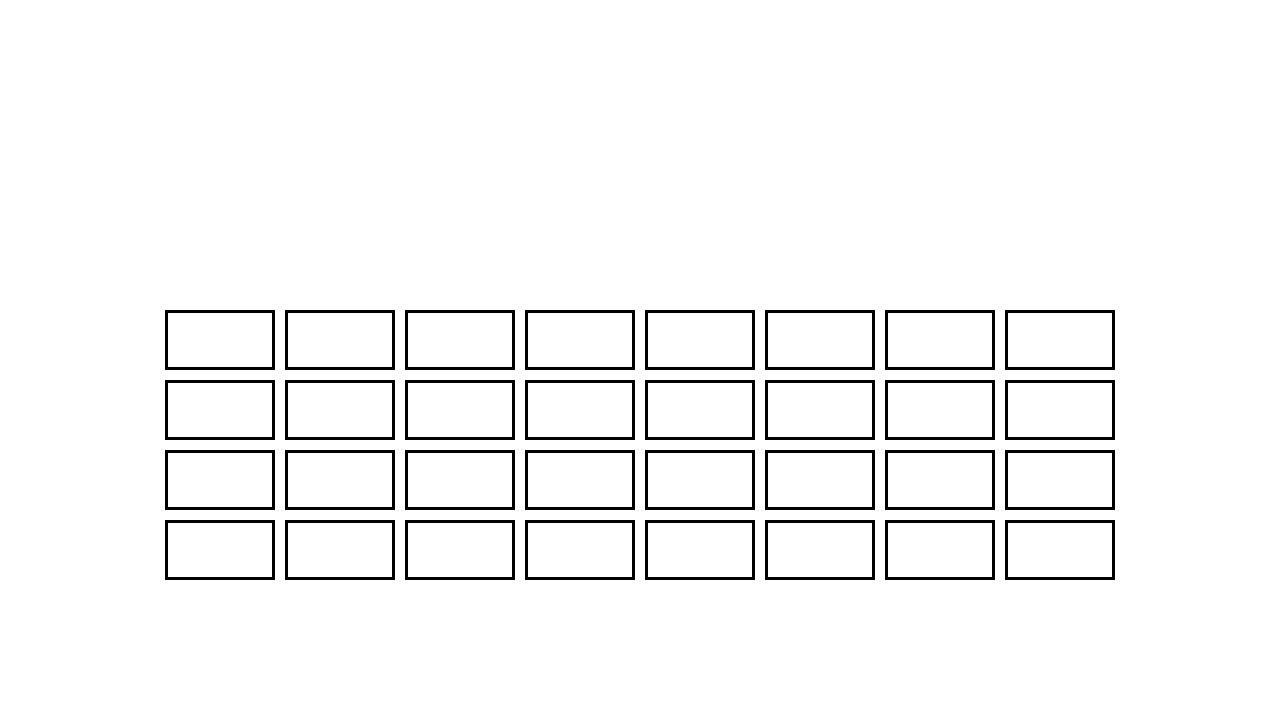
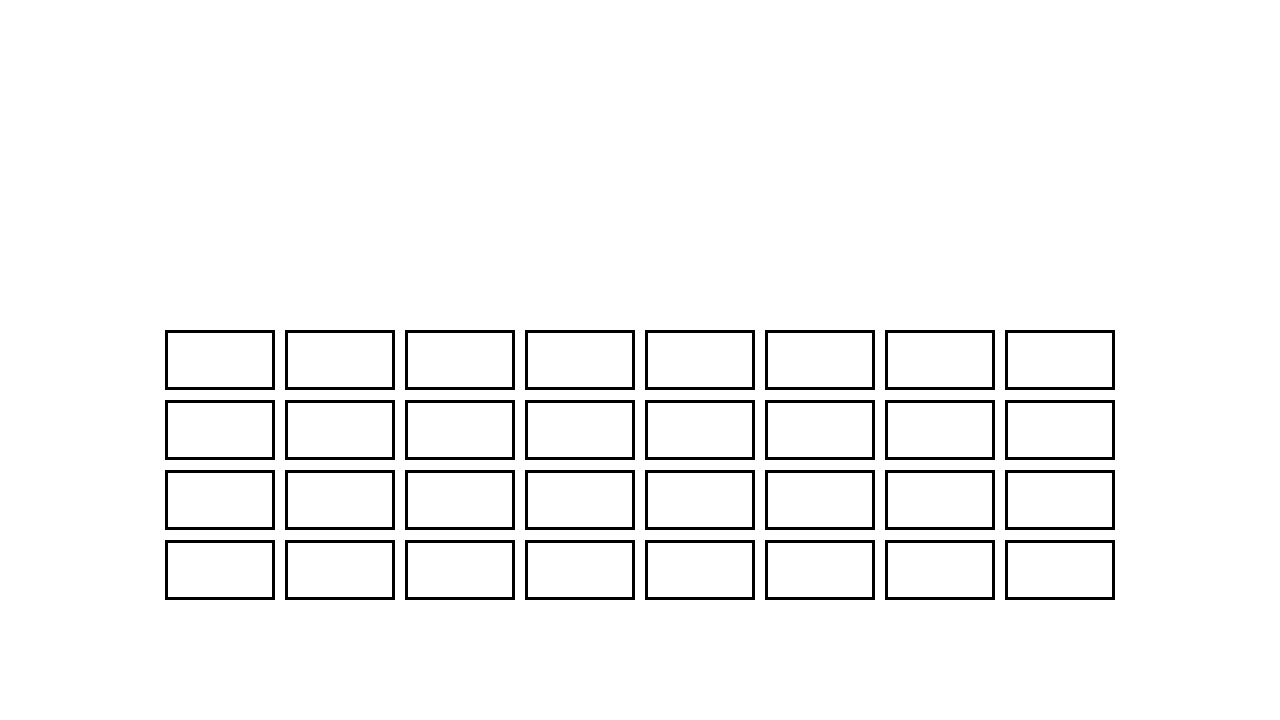
[Game Project 10] Travelers of Elrualia v0.1.0b - Interface - Update(player, GAME_DICT, PLAYER_DICT)

Changed region(s): [[0.125, 0.4278, 0.875, 0.6722], [0.125, 0.7944, 0.875, 0.8556], [0.125, 0.7028, 0.875, 0.7639]]

diff --git a/Class.py b/Class.py
@@ -51,7 +51,7 @@ class Cursor(pygame.sprite.Sprite):
 
 
 class Player(pygame.sprite.Sprite):
-    def __init__(self, game, dict, ui_dict=None):
+    def __init__(self, game, dict, game_dict=None, character="player"):
         # Setup
         self.game = game
         self.groups = self.game.all_sprites, self.game.characters
@@ -59,74 +59,59 @@ class Player(pygame.sprite.Sprite):
         pygame.sprite.Sprite.__init__(self, self.groups)
 
         # Initialization
-        self.dict, self.ui_dict = dict, ui_dict
+        self.dict, self.char_dict, self.game_dict = dict, dict[character], game_dict
         self.init_dict(), self.init_spell()
 
-        # Settings
-        self.name = self.dict["name"]
-        self.pos = self.dict["pos"]
-        self.pos_dt = self.dict["pos_dt"]
-
         # Image
-        self.tile = dict["tile"]
-        if self.tile:
+        self.tile = self.table
+        if self.table:
             self.index = 0
-            self.images_side = load_tile_table(path.join(self.game.graphics_folder, self.dict["image"]), self.dict["tile_dt"][0], self.dict["tile_dt"][1])
-            self.images = self.images_side[self.dict["default_side"]]
+            self.images_side = load_tile_table(path.join(self.game.graphics_folder, self.image), self.size[0], self.size[1])
+            self.images = self.images_side[self.side]
             self.image = self.images[self.index]
             self.dt = game.dt
             self.current_time = 0
-            self.animation_time = 0.10
+            self.animation_time = 0.08
         else:
-            self.image = load_image(self.game.graphics_folder, self.dict["image"])
+            self.image = load_image(self.game.graphics_folder, self.image)
         self.rect = self.image.get_rect()
         self.rect.x = self.pos[0]
         self.rect.y = self.pos[1]
 
         # Center
-        self.center = dict["center"]
         if self.center:
             self.rect.center = self.pos
 
         # Bobbing
-        self.bobbing = dict["bobbing"]
         if self.bobbing:
             self.tween = tween.linear
             self.step = 0
             self.dir = 1
 
     def init_dict(self):
-        self.grid_pos = self.dict["grid_pos"]
-        self.grid_size = self.ui_dict["grid_size"]
+        self.center = self.dict["center"]
+        self.bobbing = self.dict["bobbing"]
 
-        self.max_health = self.dict["max_health"]
-        self.health = self.dict["health"]
-        self.health_rect = self.dict["health_rect"]
-        self.health_color = self.ui_dict["health"]
+        self.name = self.char_dict["name"]
+        self.pos = self.char_dict["pos"]
+        self.grid_pos = self.char_dict["grid_pos"]
+        self.table = self.char_dict["table"]
 
-        self.max_armor = self.dict["max_armor"]
-        self.armor = self.dict["armor"]
-        self.armor_rect = self.dict["armor_rect"]
-        self.armor_color = self.ui_dict["armor"]
+        self.image = self.char_dict["image"]
+        self.size = self.char_dict["size"]
+        self.side = self.char_dict["side"]
 
-        self.max_mana = self.dict["max_mana"]
-        self.mana = self.dict["mana"]
-        self.mana_rect = self.dict["mana_rect"]
-        self.mana_dt = self.dict["mana_dt"]
-        self.mana_color = self.ui_dict["mana"]
+        self.level = self.char_dict["level"]
+        self.max_health = self.char_dict["max_health"]
+        self.health = self.char_dict["health"]
+        self.max_mana = self.char_dict["max_mana"]
+        self.mana = self.char_dict["mana"]
 
-        self.c_spell_pos = self.dict["current_spell_pos"]
-        self.c_spell_dt = self.dict["current_spell_dt"]
-        self.w_spell_pos = self.dict["waiting_spell_pos"]
-        self.w_spell_dt = self.dict["waiting_spell_dt"]
-        self.n_spell_pos = self.dict["next_spell_pos"]
-        self.p_spell_pos = self.dict["passive_spell_pos"]
-        self.color_spell = self.ui_dict["spell_color"]
-        self.color_spell_pos = self.ui_dict["spell_color_pos"]
-        self.color_spell_dt = self.ui_dict["spell_color_dt"]
-        self.spell_size = self.ui_dict["spell_size"]
-        self.spell_dt = self.ui_dict["spell_dt"]
-        self.spell_side_dt = self.ui_dict["spell_side_dt"]
+        self.grid_size = self.game_dict["grid_size"]
+        self.pos_dt = self.game_dict["pos_dt"]
+        self.spell_color = self.game_dict["color"]["spell"]
+
+
 
     def init_spell(self):
         self.waiting_spell = [None] * 9
@@ -138,6 +123,14 @@ class Player(pygame.sprite.Sprite):
         self.next_spell = random.choice(list(self.game.spell_images.keys()))
         self.current_passive = random.choice(list(self.game.passive_images.keys()))
 
+    def update_spell(self):
+        for index in range(len(self.current_spell)):
+            if self.current_spell[index] is None:
+                self.current_spell[index] = self.next_spell = self.waiting_spell[0]
+                self.waiting_spell[0] = None
+                sort_list(self.waiting_spell, None)
+                self.waiting_spell[len(self.waiting_spell)-1] = random.choice(list(self.game.spell_images.keys()))
+
     def move(self, dx=0, dy=0):
         if 0 <= self.grid_pos[0] + dx < self.grid_size[0] and 0 <= self.grid_pos[1] + dy < self.grid_size[1]:
             self.pos[0] += dx * self.pos_dt[0]
@@ -148,50 +141,9 @@ class Player(pygame.sprite.Sprite):
         else:
             return False
 
-    def draw_status(self):
-        # Health / Armor / Mana
-        pygame.draw.rect(self.game.gameDisplay, self.health_color, (self.health_rect[0], self.health_rect[1], self.health/self.max_health * self.health_rect[2], self.health_rect[3]))
-        pygame.draw.rect(self.game.gameDisplay, self.armor_color, (self.armor_rect[0], self.armor_rect[1], self.armor/self.max_armor * self.armor_rect[2], self.armor_rect[3]))
-        for i in range(int(self.mana)+1):
-            pygame.draw.rect(self.game.gameDisplay, self.mana_color, (self.mana_rect[0] + i*self.mana_dt[0], self.mana_rect[1] + i*self.mana_dt[1], min(1, self.mana-i) * self.mana_rect[2], self.mana_rect[3]))
-
-    def draw_spell(self):
-        # Current Spell & Colors
-        for i in range(len(self.current_spell)):
-            pygame.draw.rect(self.game.gameDisplay, self.color_spell[i], (self.color_spell_pos[0] + i*self.color_spell_dt[0], self.color_spell_pos[1] + i*self.color_spell_dt[1], self.color_spell_pos[2], self.color_spell_pos[3]))
-            if self.current_spell[i] is not None:
-                self.game.draw_image(self.game.spell_images[self.current_spell[i]], self.c_spell_pos[0] + i*self.c_spell_dt[0], self.c_spell_pos[1] + i*self.c_spell_dt[1])
-
-        # Waiting Spell
-        for i in range(len(self.waiting_spell)):
-            if self.waiting_spell[i] is not None:
-                if i == 0:
-                    self.game.draw_image(self.game.spell_images[self.waiting_spell[i]], self.n_spell_pos[0], self.n_spell_pos[1])
-                else:
-                    self.game.draw_image(self.game.spell_images[self.waiting_spell[i]], self.w_spell_pos[0] + i*self.w_spell_dt[0], self.w_spell_pos[1] + i*self.w_spell_dt[1])
-
-        # Current Passive
-        self.game.draw_image(self.game.passive_images[self.current_passive], self.p_spell_pos[0], self.p_spell_pos[1])
-
-    def draw_spell_range(self):
-        for index in range(len(self.current_spell)):
-            spell = self.current_spell[index]
-
-            if SPELL_DICT[spell]["type"] == 0:
-                pygame.draw.circle(self.game.gameDisplay, self.color_spell[index], (self.pos[0], self.pos[1]), self.spell_size)
-
-            if SPELL_DICT[spell]["type"] == 1:
-                for h in range(len(SPELL_DICT[spell]["range"])):
-                    for v in range(len(SPELL_DICT[spell]["range"][h])):
-                        grid_pos_x = self.grid_pos[0] + h + 1 - self.grid_size[0]
-                        grid_pos_y = self.grid_pos[1] + (v-int(len(SPELL_DICT[spell]["range"][h])/2))
-                        if 0 <= grid_pos_x < self.grid_size[0] and 0 <= grid_pos_y < self.grid_size[1]:
-                            pos_x = self.pos[0] + h*self.spell_dt + self.spell_side_dt
-                            pos_y = self.pos[1] + (v-int(len(SPELL_DICT[spell]["range"][h])/2))*self.spell_dt
-                            pygame.draw.circle(self.game.gameDisplay, self.color_spell[index], (pos_x, pos_y), self.spell_size)
-
     def use_spell(self, index):
         spell = self.current_spell[index]
+
         if SPELL_DICT[spell]["type"] == 1:
             hit = False
             for h in range(len(SPELL_DICT[spell]["range"])):
@@ -206,18 +158,8 @@ class Player(pygame.sprite.Sprite):
         self.current_spell[index] = None
         self.update_spell()
 
-    def update_spell(self):
-        for index in range(len(self.current_spell)):
-            if self.current_spell[index] is None:
-                self.current_spell[index] = self.next_spell = self.waiting_spell[0]
-                self.waiting_spell[0] = None
-                sort_list(self.waiting_spell, None)
-                self.waiting_spell[len(self.waiting_spell)-1] = random.choice(list(self.game.spell_images.keys()))
-
     def draw_ui(self):
-        self.draw_status()
-        self.draw_spell()
-        self.draw_spell_range()
+        pass
 
     def update(self):
         self.game.update_sprite(self)

diff --git a/Settings.py b/Settings.py
@@ -51,28 +51,30 @@ UI_DICT = {"grid_size": [4, 4],
            "spell_size": 38, "spell_dt": 95, "spell_side_dt": 190,
            "status_font": None, "status_size": 50, "status_color": BLACK, "status_enemy_pos": [960, 670]}
 
-GAME_DICT = {"pos": {"player_sprite": [260, 260], "enemy_sprite": [735, 260], "sprite_dt": [95, 95],
-                     "player_name": [0, 0], "enemy_name": [0, 0], "enemy_name_dt": [0, 0],
+
+
+GAME_DICT = {"grid_size": [4, 4], "pos_dt": [120, 70],
+             "pos": {"player_name": [0, 0], "enemy_name": [0, 0], "enemy_name_dt": [0, 0],
                      "player_level": [0, 0], "player_exp": [0, 0], "player_mana": [0, 0],
                      "next_spell": [0, 0], "current_spell": [0, 0], "current_attack": [0, 0],
                      "stage": [0, 0], "time": [0, 0], "option": [0, 0], "fps": [0, 0]},
-             "color": {"health": GREEN, "mana": LIGHTSKYBLUE},
+             "color": {"health": GREEN, "mana": LIGHTSKYBLUE, "spell": [RED, BLUE, GREEN]},
              "font": None
              }
 
 CHARACTER_DICT = {"center": True, "bobbing": False,
-                  "Player": {"name": "Player", "grid_pos": [0, 0],
-                             "image": "character_oco_Knight_Idle_strip_noBKG_x4.png", "size": [256, 256], "side": 0,
+                  "player": {"name": "Player", "pos": [208, 332], "grid_pos": [0, 0], "table": True,
+                             "image": "character_oco_Knight_Idle_strip_noBKG_256x256.png", "size": [256, 256], "side": 0,
                              "level": 1, "max_health": 100, "health": 100, "max_mana": 5, "mana": 3.75},
-                  "Skeleton": {"name": "Skeleton", "grid_pos": [0, 0],
+                  "skeleton": {"name": "Skeleton", "grid_pos": [0, 0],
                                "image": "character_pipoya_enemy_04_1.png", "size": [32, 32], "side": 1,
                                "level": 1, "max_health": 100, "health": 100, "max_mana": 6, "mana": 4.50,
                                "move_frequency": 1000}
                   }
 
 PLAYER_DICT = {"name": "Player", "center": True, "bobbing": False,
-               "image": "character_oco_Knight_Idle_strip_noBKG_x4.png", "tile": True, "tile_dt": [256, 256], "default_side": 0,
-               "pos": [260, 260], "pos_dt": [95, 95], "grid_pos": [0, 0],
+               "image": "character_oco_Knight_Idle_strip_noBKG_256x256.png", "tile": True, "tile_dt": [256, 256], "default_side": 0,
+               "pos": [208, 332], "pos_dt": [120, 70], "grid_pos": [0, 0],
                "max_health": 100, "health": 100, "health_rect": [83, 23, 254, 34],
                "max_armor": 50, "armor": 25, "armor_rect": [83, 63, 254, 34],
                "max_mana": 5, "mana": 3.75, "mana_rect": [553, 653, 34, 34], "mana_dt": [40, 0],

diff --git a/[Game Project 10] Travelers of Elrualia.py b/[Game Project 10] Travelers of Elrualia.py
@@ -132,7 +132,7 @@ class Game:
         self.characters = pygame.sprite.Group()
         self.items = pygame.sprite.Group()
 
-        self.player = Player(self, PLAYER_DICT, UI_DICT)
+        self.player = Player(self, CHARACTER_DICT, GAME_DICT, "player")
         self.enemy = Enemy(self, ENEMY_DICT, UI_DICT, "Skeleton")
 
         Item(self, 60, 40, self.item_images, "health")
